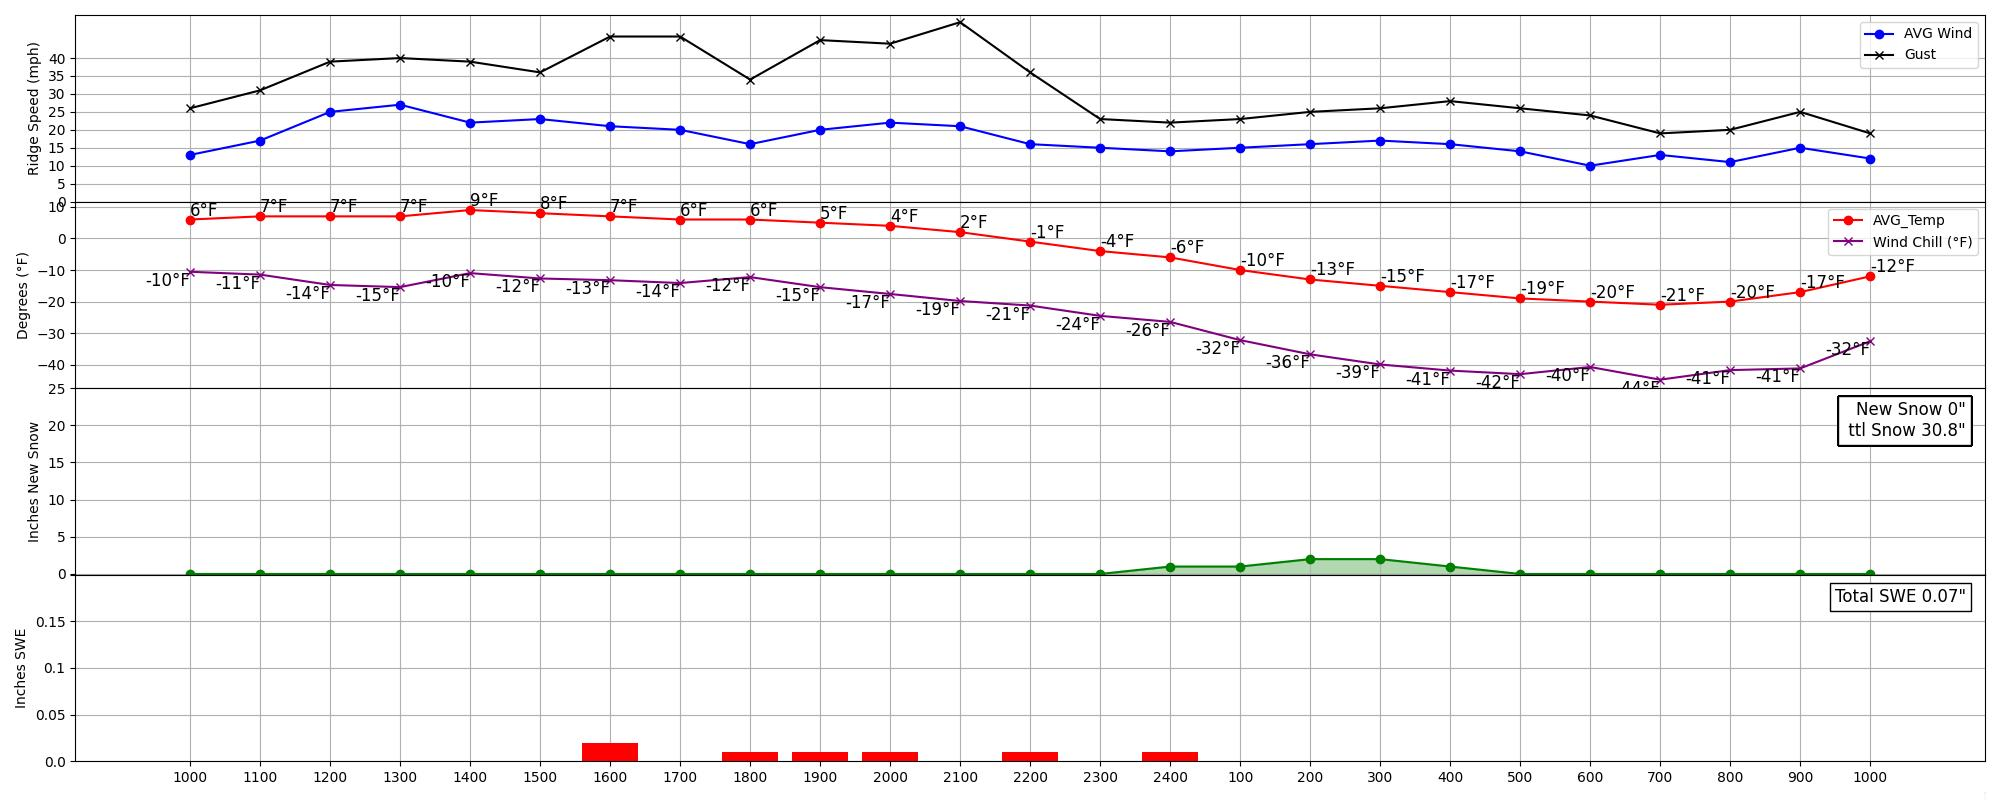
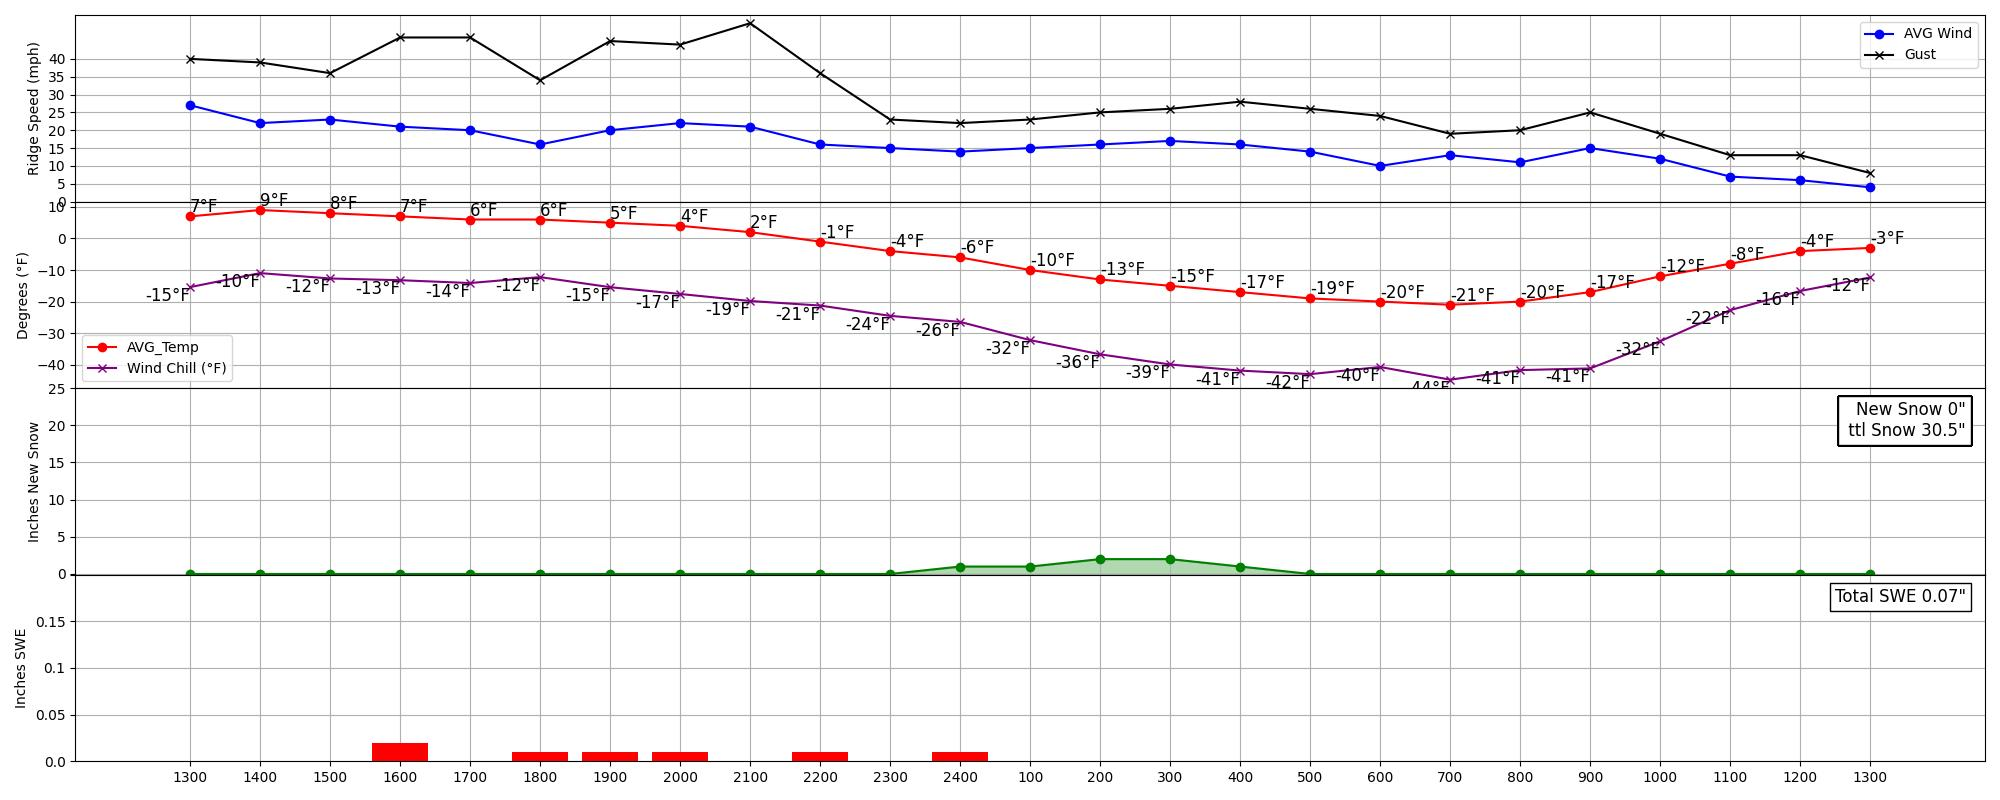
requirements.txt

diff --git a/modified_HTML_file.html b/modified_HTML_file.html
@@ -66,7 +66,7 @@
 </head>
 <body>
     <img src="7216381.png" class="corner-icon" alt="Icon">
-    <p id="myText">YCSP Timberline Weather Report - Last Update 10:30AM Monday January 15th 2024</p>
+    <p id="myText">YCSP Timberline Weather Report - Last Update 2:02PM Monday January 15th 2024</p>
     <hr>
     <div style="display: flex;">
         <!-- Left Column: Image -->
@@ -88,11 +88,11 @@
                 <tbody>
                     <tr>
                         <td></td>
-                        <td colspan="9"> Sunny and cold, with a high near -1. Wind chill values as low as -30. West wind 6 to 8 mph. .</td>
+                        <td colspan="9"> Sunny and cold, with a high near -1. Wind chill values as low as -20. West southwest wind 6 to 8 mph. .</td>
                     </tr>
                     <tr>
                         <td>Tonight</td>
-                        <td colspan="9"> Mostly clear, with a temperature falling to near -7 by 11pm, then rising to around 2 during the remainder of the night. Wind chill values as low as -25. West southwest wind around 10 mph. </td>
+                        <td colspan="9"> Partly cloudy, with a temperature falling to near -7 by 8pm, then rising to around 1 during the remainder of the night. Wind chill values as low as -25. West southwest wind 9 to 11 mph. </td>
                     </tr>
                     </thead>
                     <tbody>
@@ -110,31 +110,31 @@
                                         <th>Wednesday Night</th>
                                         <th>Thursday</th>
                                         <th>Thursday Night</th>
-                                        <th>None</th>
+                                        <th>Friday</th>
                                     </tr>
                                 </thead>
                                 <tbody>
                                     <tr>
                 <td>Cold</td>
-                <td>Mostly Clear</td>
-                <td>Partly Sunny</td>
-                <td>Snow</td>
+                <td>Partly Cloudy</td>
+                <td>Mostly Sunnythen SlightChance Snow</td>
+                <td>Snow Likely</td>
                 <td>Snow thenSnow Likely</td>
                 <td>Snow andBreezy</td>
                 <td>Snow Likely</td>
                 <td>Chance Snow</td>
-                <td>None</td>
+                <td>Slight ChanceSnow</td>
                 </tr>
                 <tr>
                     <td>High: -1 °F</td>
                     <td>Low: -7 °F⇑</td>
                     <td>High: 18 °F</td>
-                    <td>Low: 10 °F</td>
+                    <td>Low: 11 °F</td>
                     <td>High: 23 °F</td>
-                    <td>Low: 16 °F</td>
-                    <td>High: 21 °F</td>
-                    <td>Low: 15 °F</td>
-                    <td>None</td>
+                    <td>Low: 14 °F</td>
+                    <td>High: 17 °F</td>
+                    <td>Low: 10 °F</td>
+                    <td>High: 29 °F</td>
                     </tr><!-- Continue adding rows for each day... -->
                     </tbody>
             </table>
@@ -173,6 +173,48 @@
         </thead>
         <tbody>
             <tr>
+<td>13:00 Mon</td>
+<td>-3</td>
+<td>57</td>
+<td>0.0</td>
+<td>0</td>
+<td>30.5</td>
+<td>4</td>
+<td>W</td>
+<td>8</td>
+<td>1</td>
+<td>W</td>
+<td>7</td>
+</tr>
+<tr>
+<td>12:00 Mon</td>
+<td>-4</td>
+<td>66</td>
+<td>0.0</td>
+<td>0</td>
+<td>30.5</td>
+<td>6</td>
+<td>W</td>
+<td>13</td>
+<td>4</td>
+<td>W</td>
+<td>13</td>
+</tr>
+<tr>
+<td>11:00 Mon</td>
+<td>-8</td>
+<td>59</td>
+<td>0.0</td>
+<td>0</td>
+<td>30.5</td>
+<td>7</td>
+<td>WNW</td>
+<td>13</td>
+<td>5</td>
+<td>WNW</td>
+<td>12</td>
+</tr>
+<tr>
 <td>10:00 Mon</td>
 <td>-12</td>
 <td>67</td>
@@ -479,48 +521,6 @@
 <td>8</td>
 <td>S</td>
 <td>24</td>
-</tr>
-<tr>
-<td>12:00 Sun</td>
-<td>7</td>
-<td>69</td>
-<td>0.0</td>
-<td>0</td>
-<td>29.3</td>
-<td>25</td>
-<td>ENE</td>
-<td>39</td>
-<td>4</td>
-<td>ENE</td>
-<td>13</td>
-</tr>
-<tr>
-<td>11:00 Sun</td>
-<td>7</td>
-<td>58</td>
-<td>0.0</td>
-<td>0</td>
-<td>29.3</td>
-<td>17</td>
-<td>E</td>
-<td>31</td>
-<td>2</td>
-<td>E</td>
-<td>18</td>
-</tr>
-<tr>
-<td>10:00 Sun</td>
-<td>6</td>
-<td>59</td>
-<td>0.0</td>
-<td>0</td>
-<td>29.4</td>
-<td>13</td>
-<td>E</td>
-<td>26</td>
-<td>2</td>
-<td>E</td>
-<td>9</td>
 </tr>
 
         </tbody>

diff --git a/GAARBAGE/schedule.py b/GAARBAGE/schedule.py
@@ -1,28 +1,18 @@
-#make a random day
-#check if fits
-# must have 3 on and 6 on eg, and rest on pioneer
+import subprocess
+import logging
 
-#have x amount of slots in a day
-# fill the slots and check if it works
+# The command you want to run (replace with your own)
+command = "pip freeze > requirements.txt"
 
-import random
-
-# Sample list of employees
-employees = ["Alice", "Bob", "Charlie", "David", "Eva", "Frank", "Grace", "Hannah", "Ivan", "Julia", "Kevin", "Luna", "Mike"]
-
-# Shuffle the list to randomize the order
-random.shuffle(employees)
-
-# Assign 3 employees to the first office
-first_office = employees[:3]
-
-# Assign 6 different employees to the second office
-second_office = employees[3:9]
-
-# Assign the remaining employees to the main office
-main_office = employees[9:]
-
-# Display the assignments
-print(first_office, second_office, main_office)
-
-
+# Run the command
+try:
+    result = subprocess.run(command, shell=True, check=True, stdout=subprocess.PIPE, stderr=subprocess.PIPE, text=True)
+    # The above line runs the command, captures its output, and checks for errors.
+    
+    # Print the standard output of the command
+    print("requirements.txt updated")
+    logging.debug("requirements.txt updated")
+    
+except subprocess.CalledProcessError as e:
+    # Handle any errors that occur when running the command
+    print(f"requirements.txt UPDATE ERROR")

diff --git a/Wind_Rose.py b/Wind_Rose.py
@@ -87,7 +87,8 @@ def create_wind_rose(directions, speeds):
     # Convert the direction from degrees to radians
     direction_radians = np.deg2rad(direction_degrees)
 
-    ax.quiver(0, 0, direction_radians, length, angles='xy', scale_units='xy', scale=1, color='lightgreen', width=0.015, zorder = 3, alpha=0.9)
+    #ax.quiver(0, 0, direction_radians, length + 0.9, angles='xy', scale_units='xy', scale=1, color='black', width=0.017, zorder = 3, alpha=0.7)
+    ax.quiver(0, 0, direction_radians, length, angles='xy', scale_units='xy', scale=1, color='blue', width=0.015, zorder = 4, alpha=0.6)
 
     # for i in range(len(directions)):
     #     sc.quiver(directions,20, color='lightgray', scale=0.5, scale_units='xy', width=0.015)
